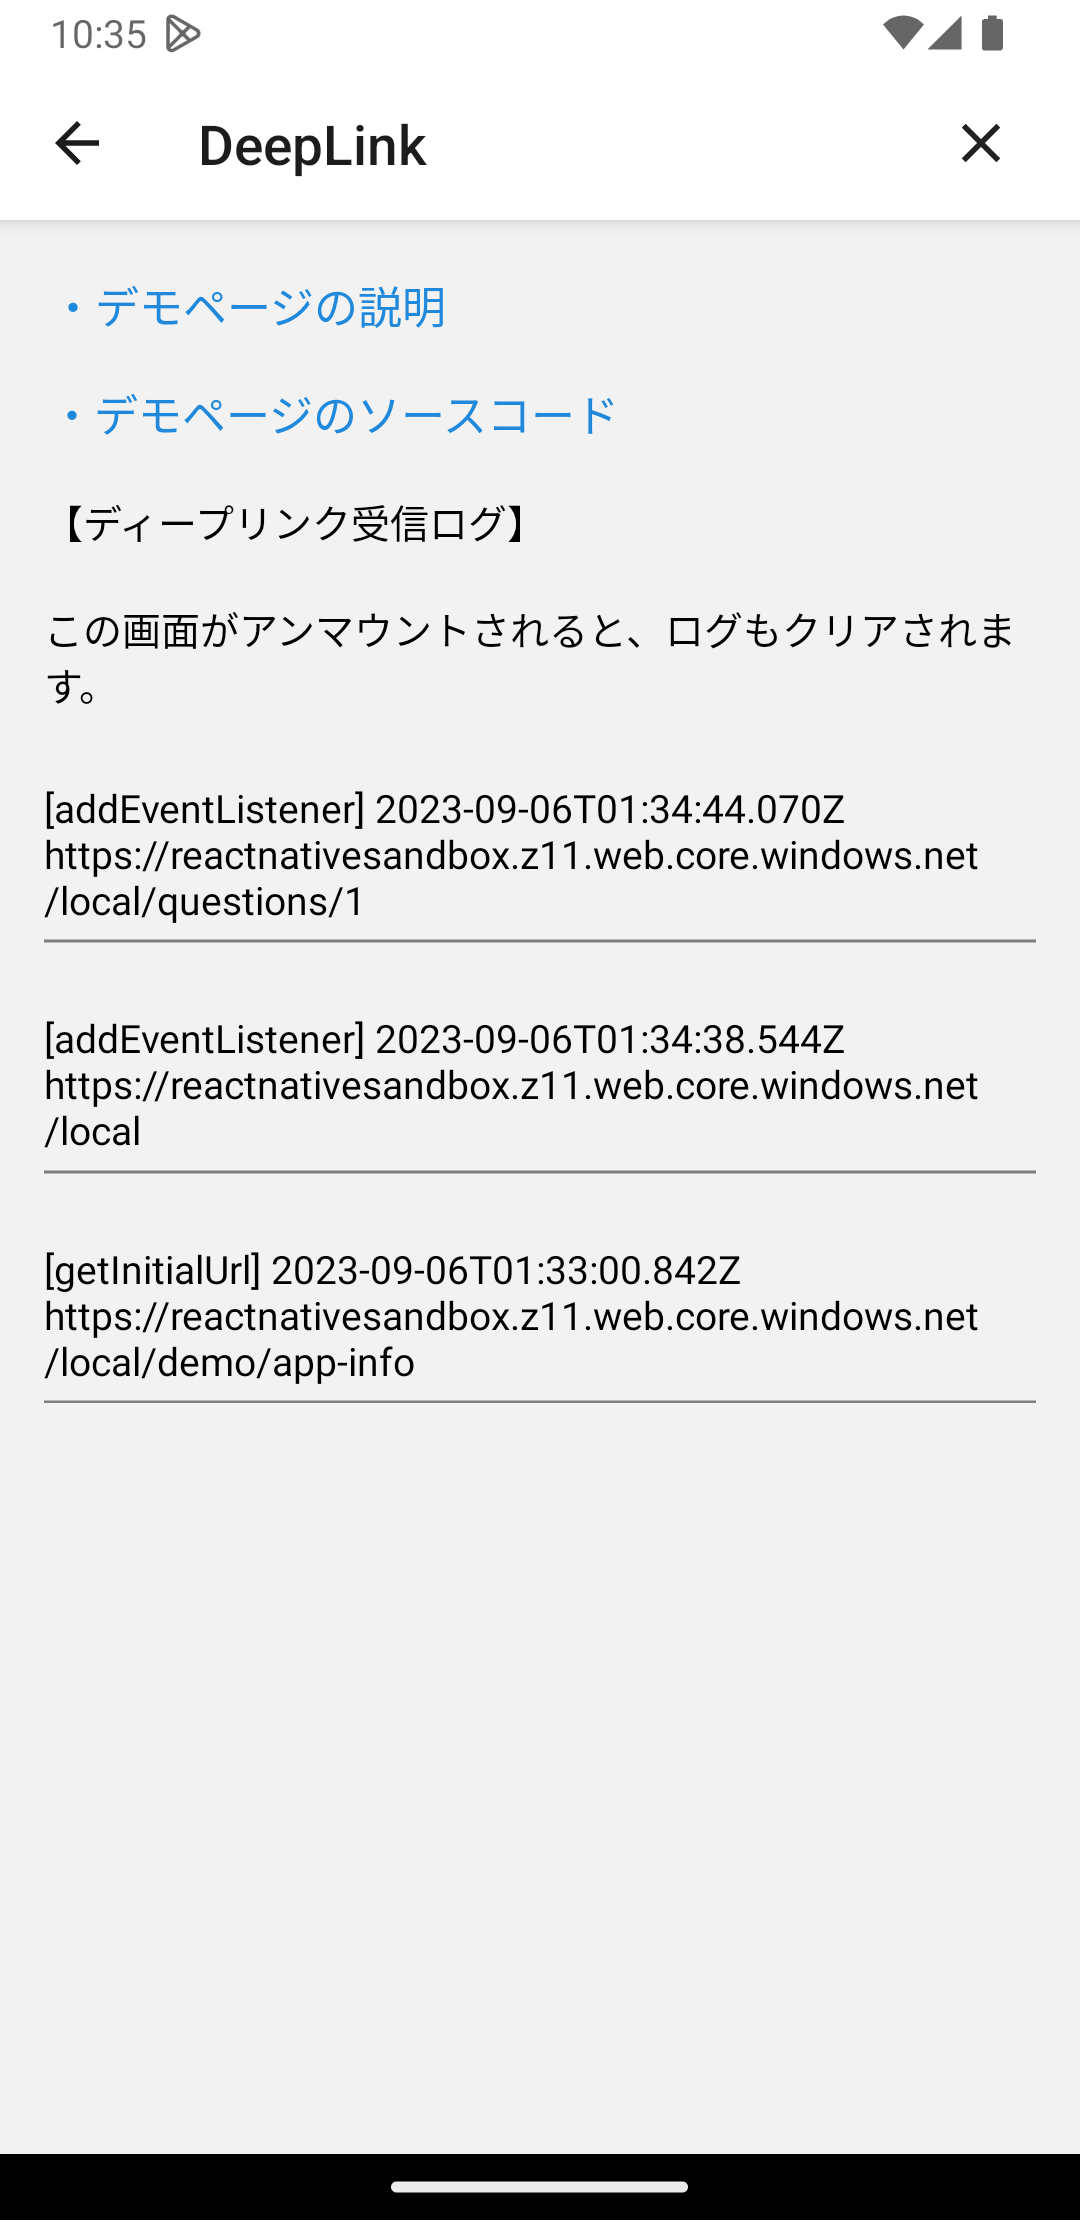
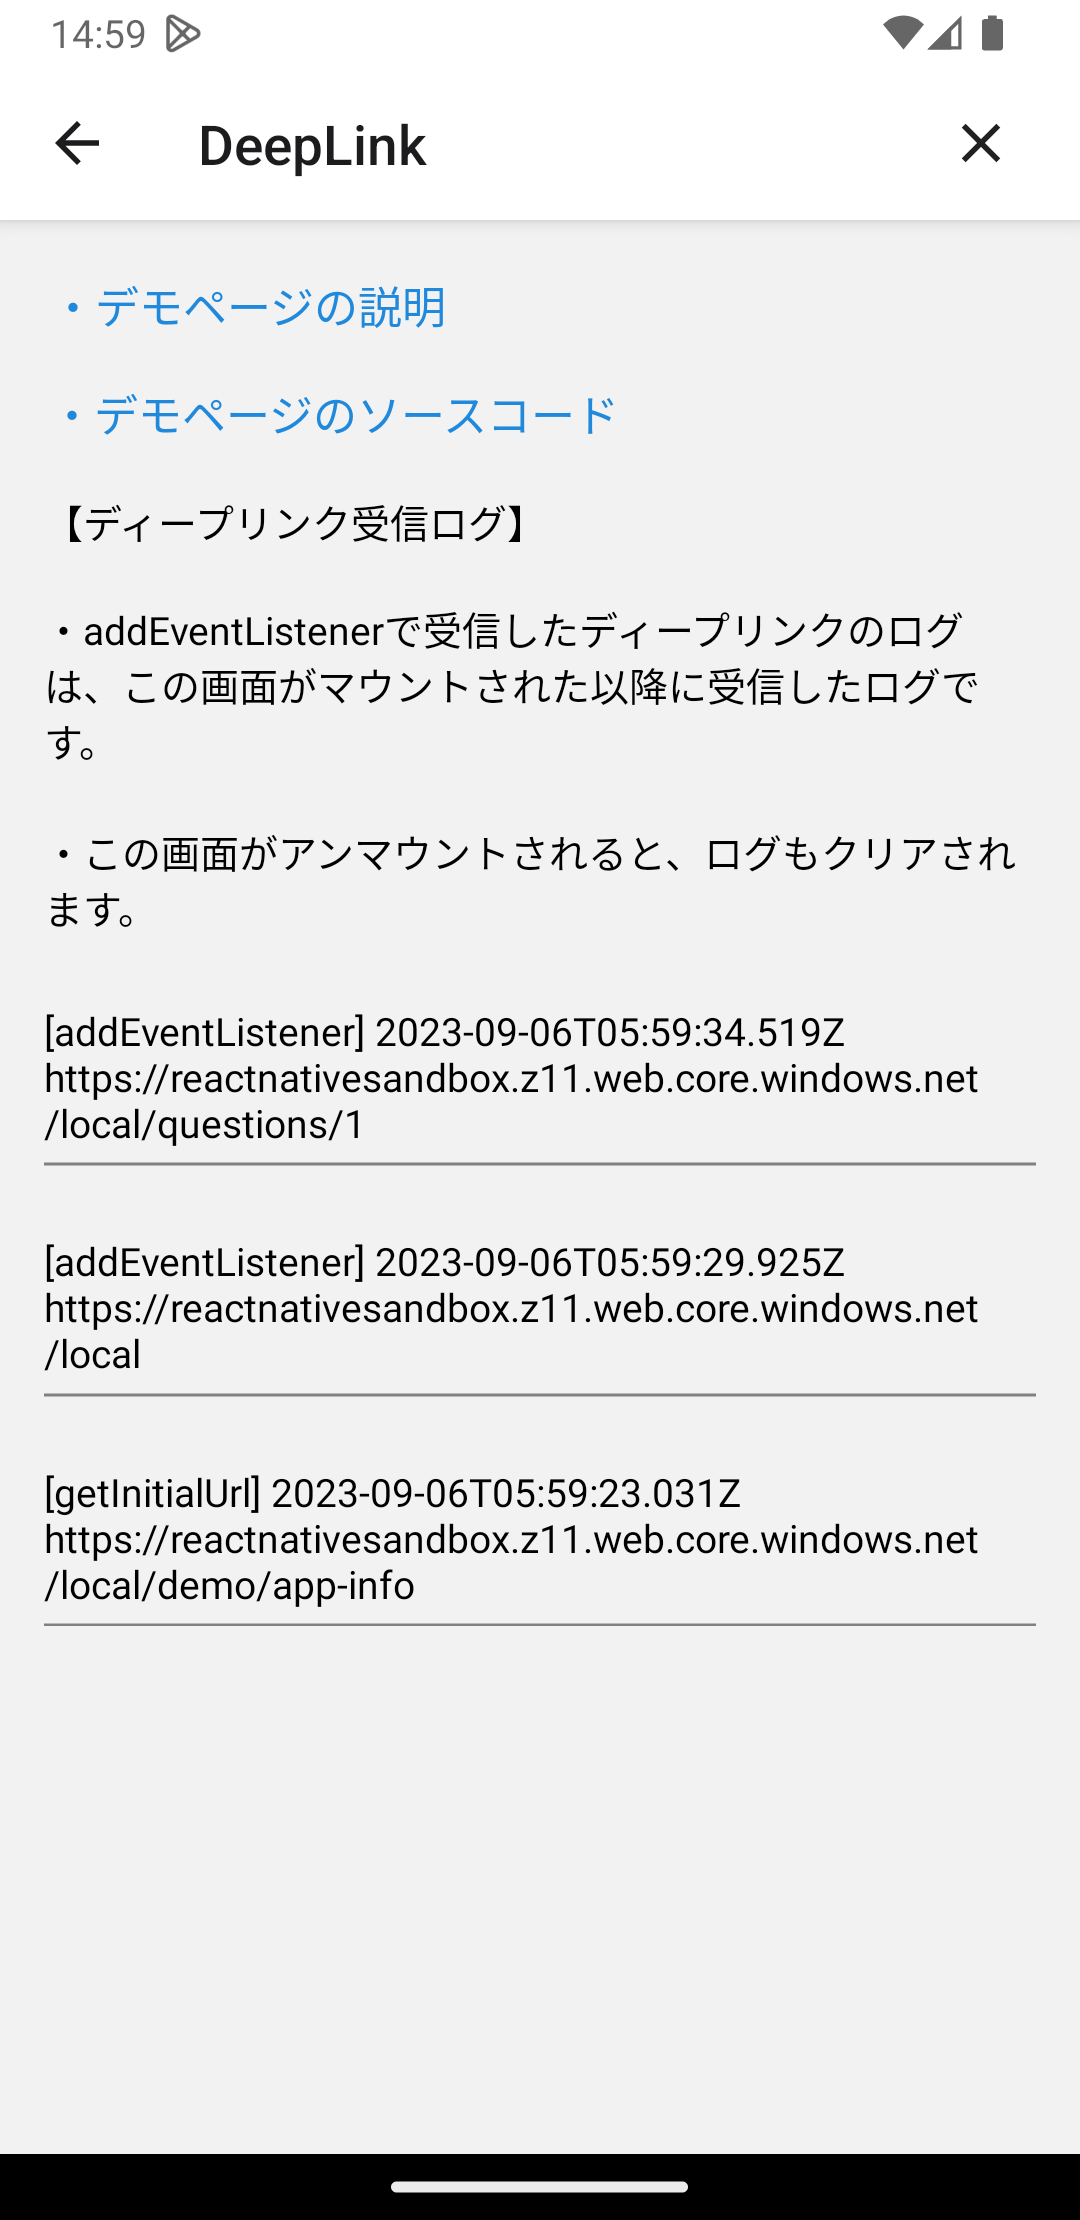
デモページの文章修正
- addEventListenerで受信したログは、このページがマウントされた後のログであることを明示

Changed region(s): [[0.0306, 0.2797, 0.9472, 0.5284], [0.0306, 0.5595, 0.9472, 0.7459], [0.0611, 0.0, 0.1222, 0.0311]]

diff --git a/example-app/SantokuApp/src/features/demo-deep-link/pages/DeepLinkPage.tsx b/example-app/SantokuApp/src/features/demo-deep-link/pages/DeepLinkPage.tsx
@@ -29,7 +29,10 @@ export const DeepLinkPage: React.FC = () => {
         <SpecAndSourceCodeLink feature="deep-link" />
         <View style={styles.contentsContainer}>
           <Text>【ディープリンク受信ログ】</Text>
-          <Text>この画面がアンマウントされると、ログもクリアされます。</Text>
+          <Text>
+            ・addEventListenerで受信したディープリンクのログは、この画面がマウントされた以降に受信したログです。
+          </Text>
+          <Text>・この画面がアンマウントされると、ログもクリアされます。</Text>
           {receivedLinkLogs.length ? (
             receivedLinkLogs.map((log, index) => (
               <View key={index} style={styles.logItemContainer}>
